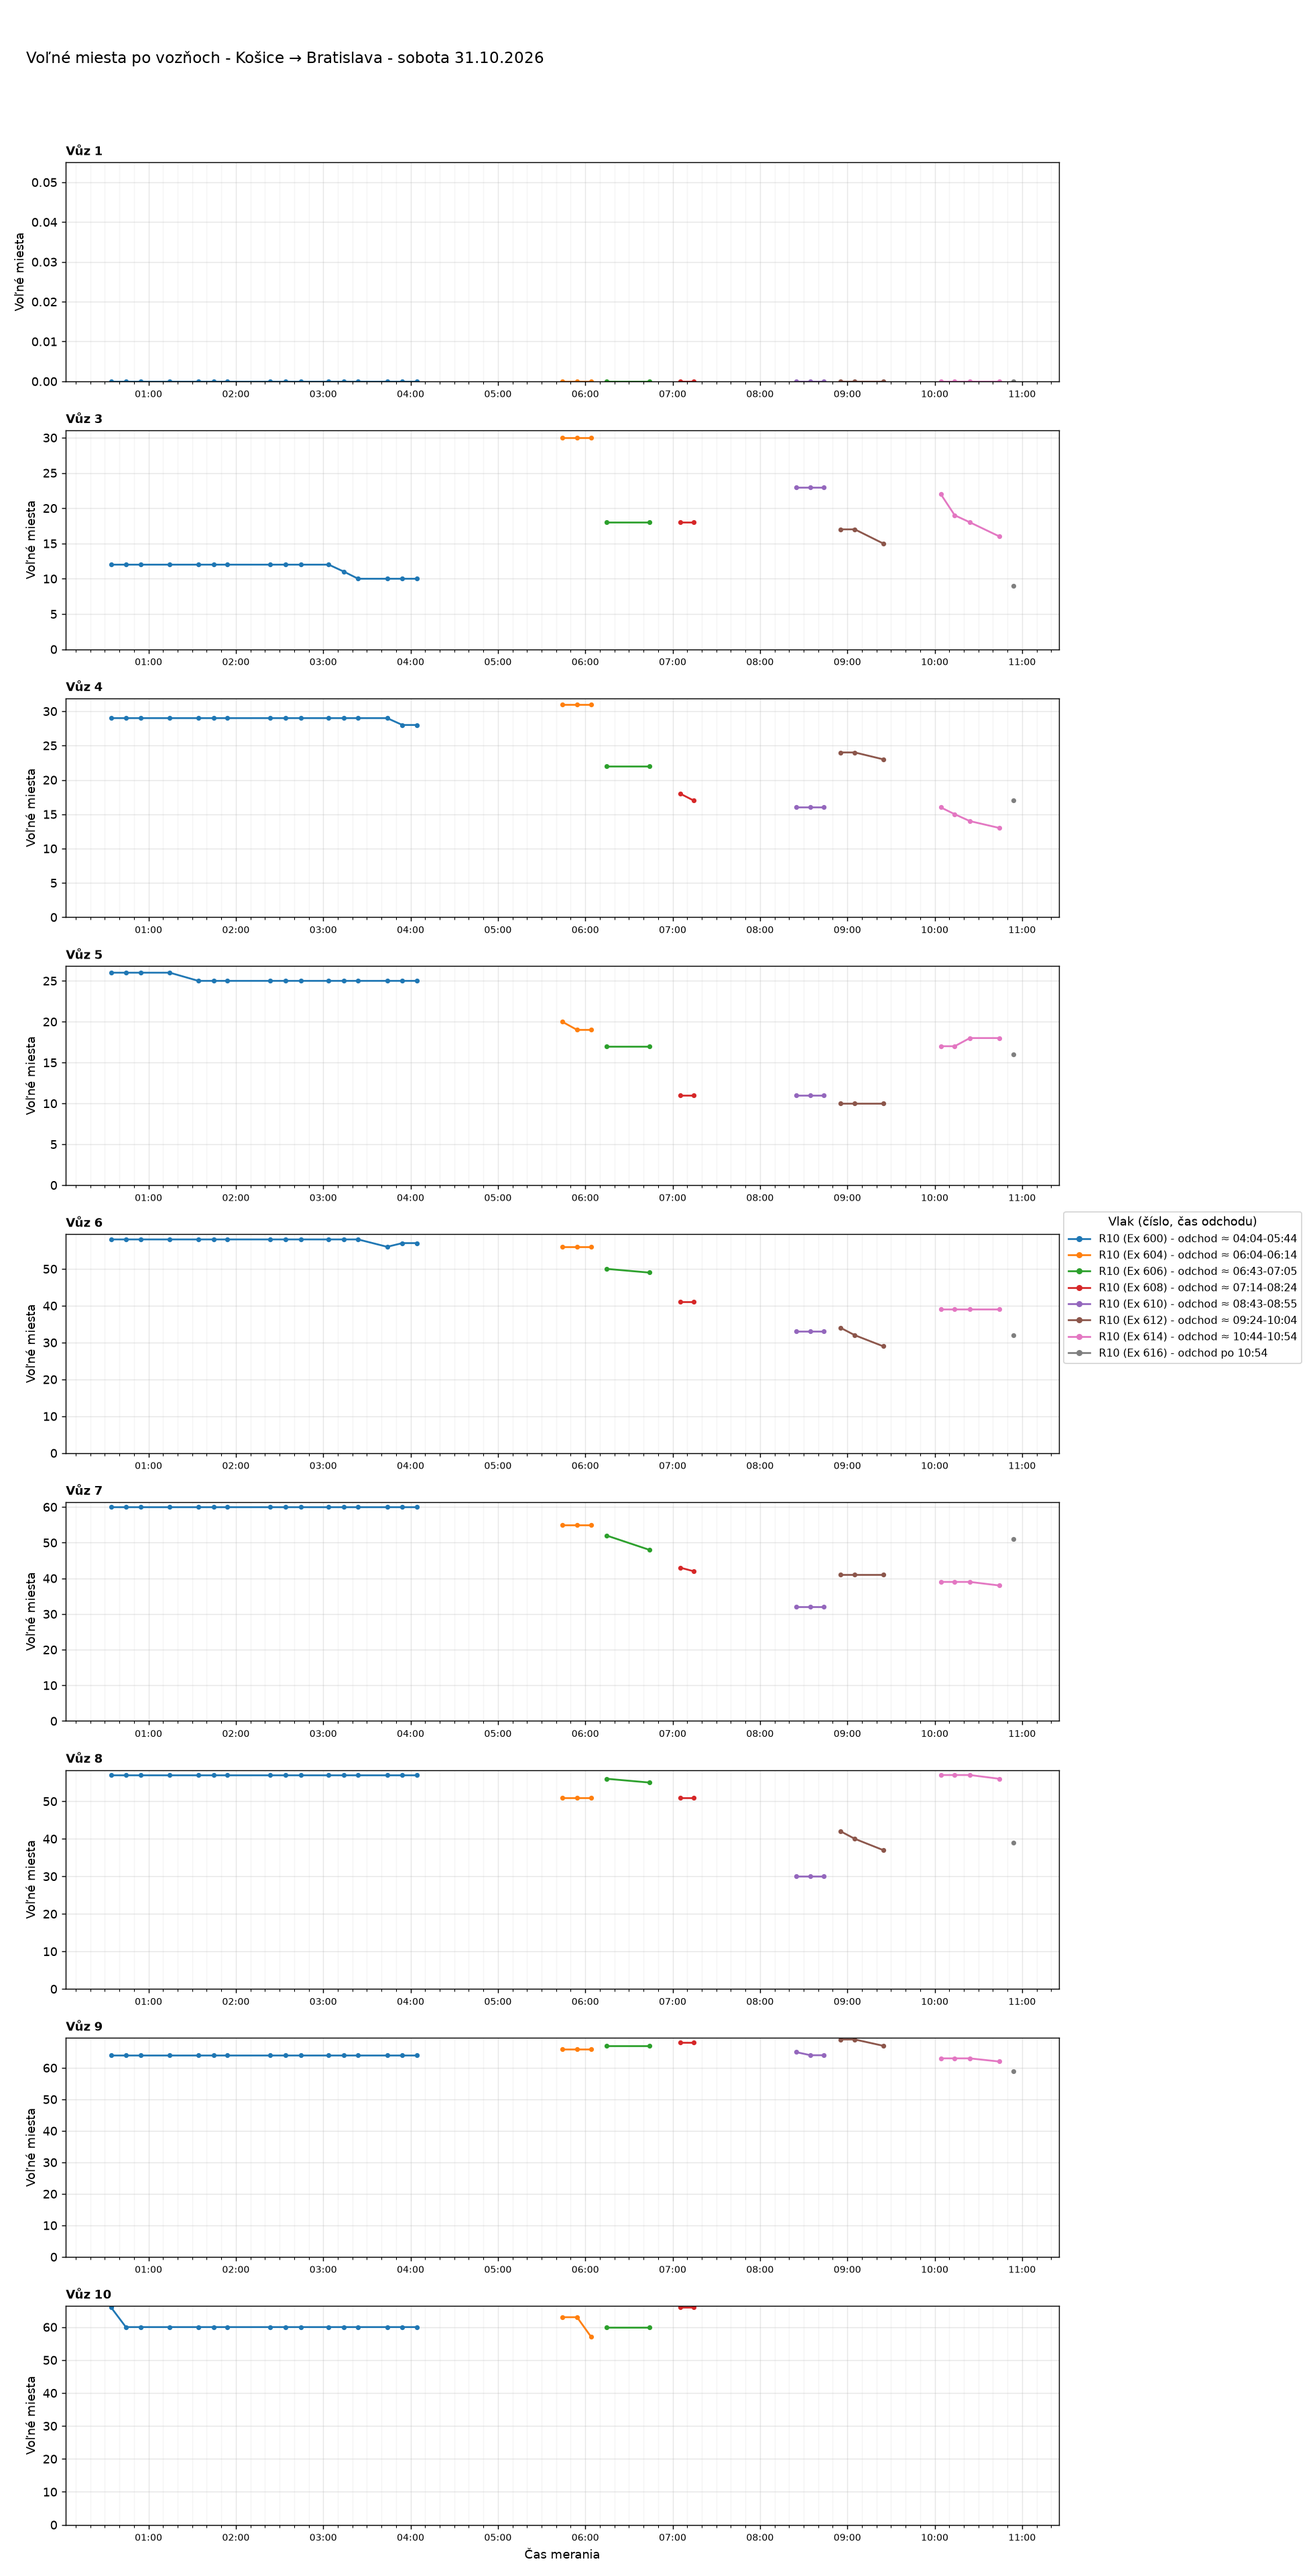
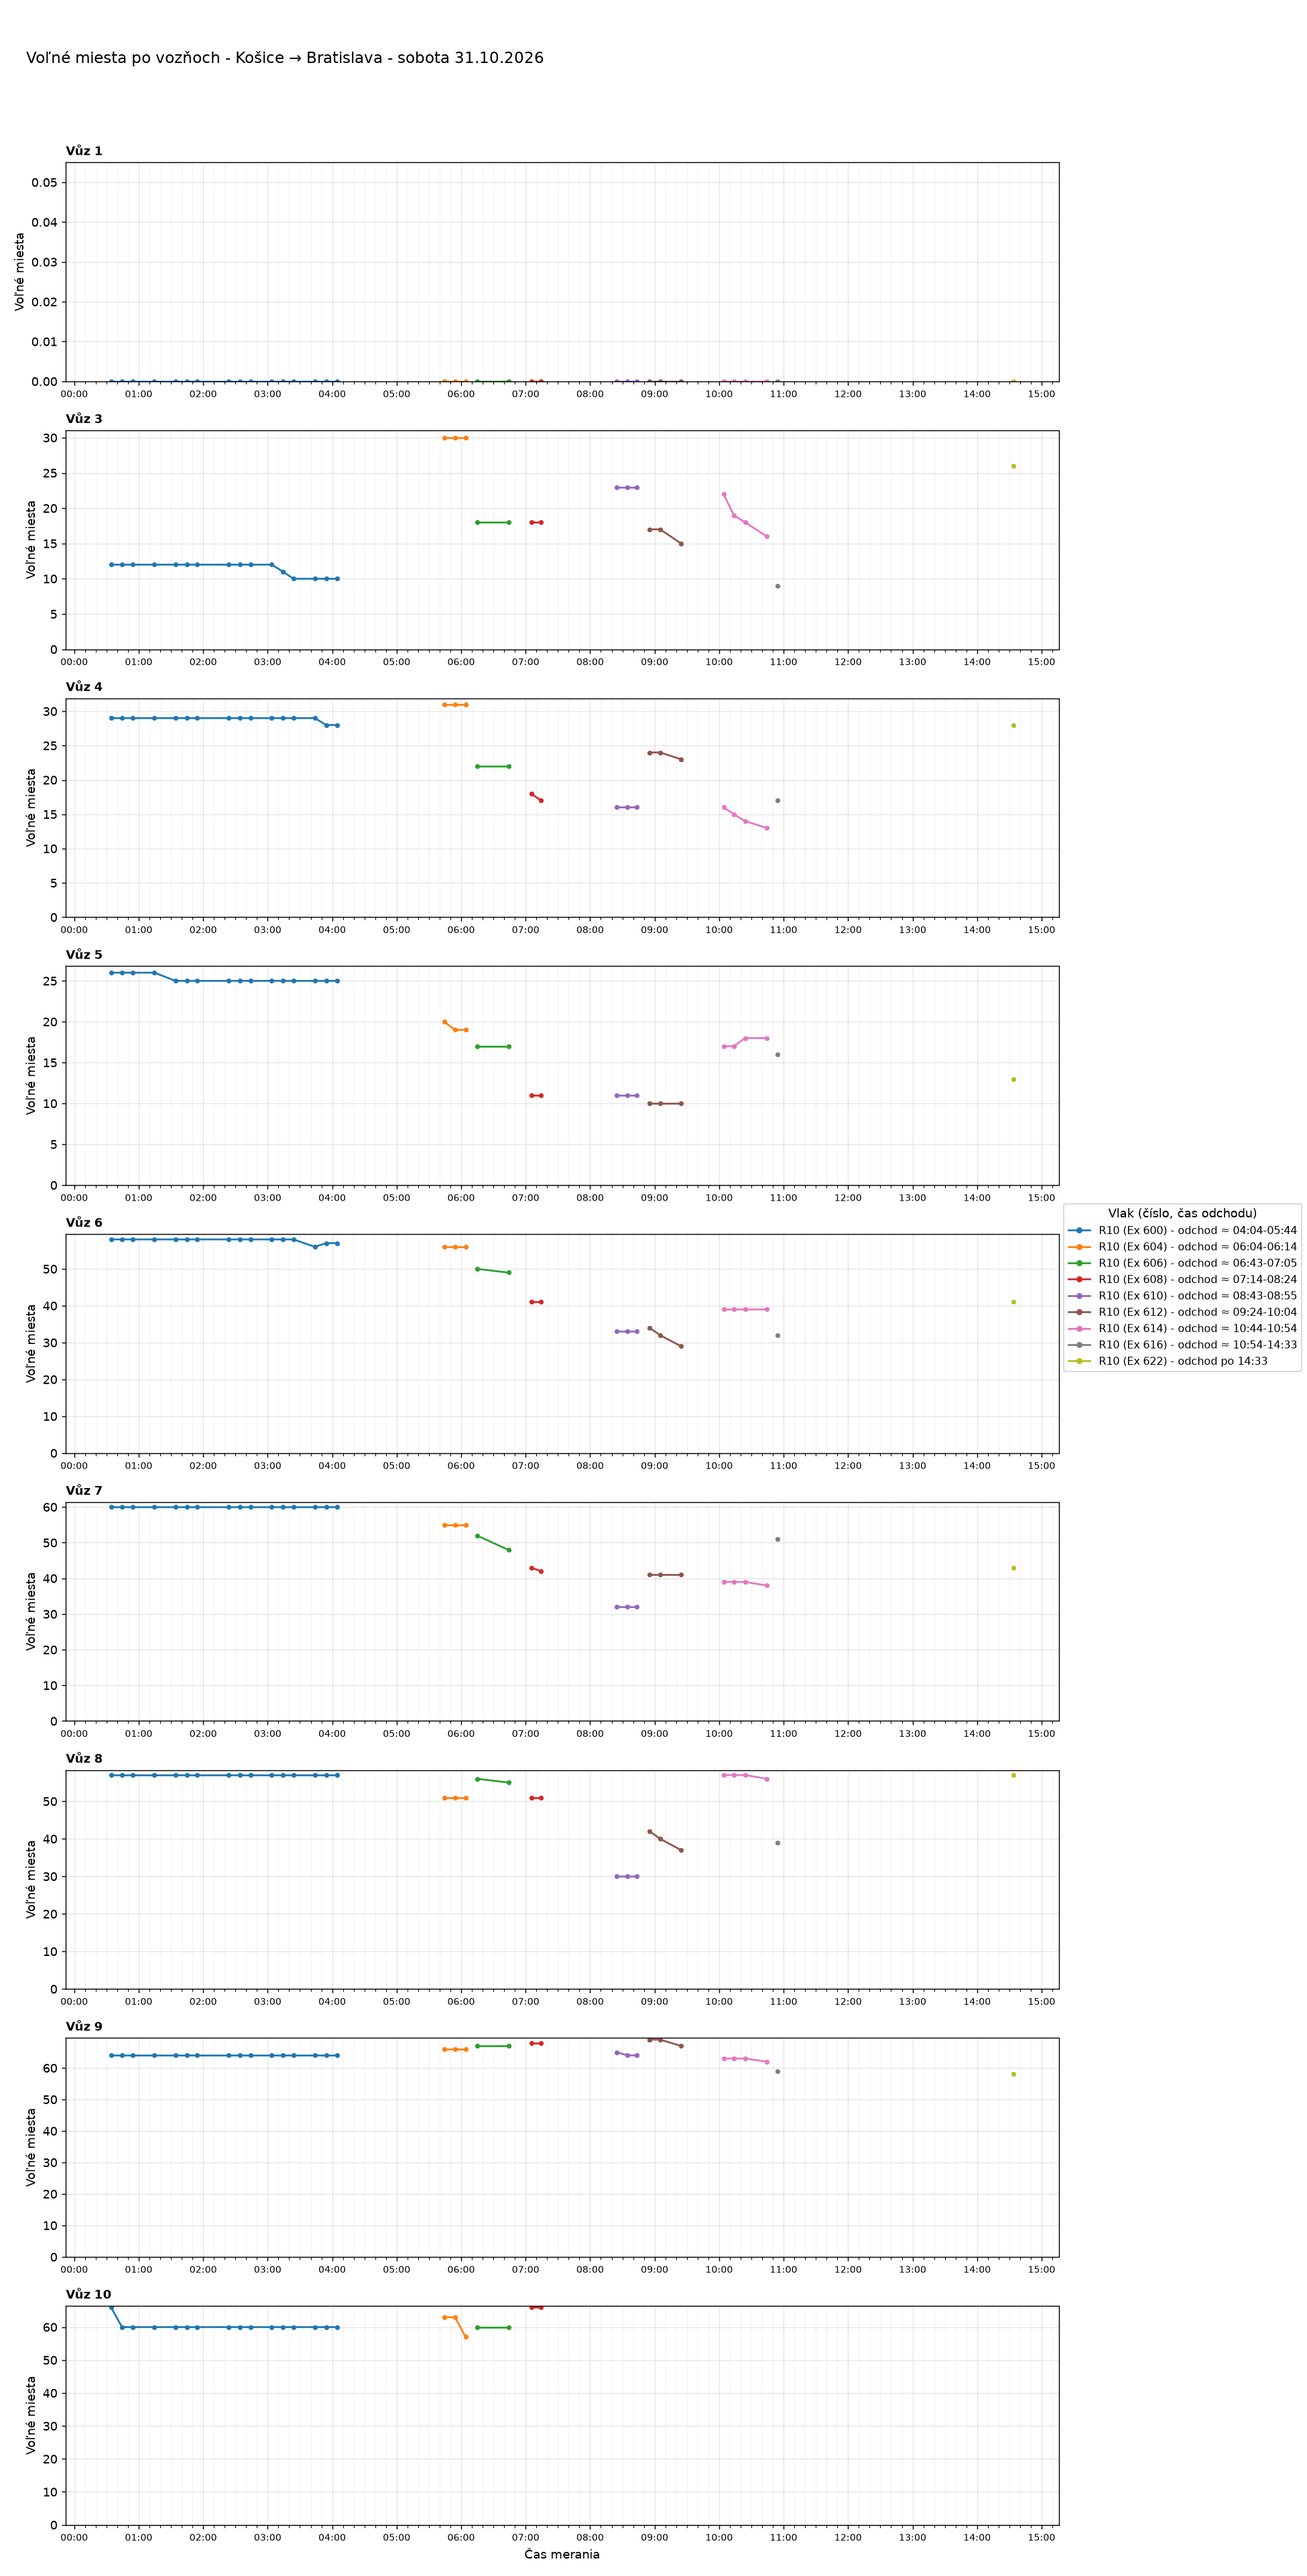
Aktualizácia grafov 2026-10-31 14:58

Changed region(s): [[0.8, 0.4684, 1.0, 0.5308]]

diff --git a/index.html b/index.html
@@ -37,7 +37,7 @@ details.trasa>summary{cursor:pointer;font-weight:600;font-size:1.1rem;padding:8p
 <body>
 <main>
 <h1>Voľné miesta vo vlakoch</h1>
-<p class="muted">Posledné meranie: 31.10.2026 11:03 ·
+<p class="muted">Posledné meranie: 31.10.2026 14:33 ·
 <a href="data/obsadenost_data.csv">stiahnuť dáta (CSV)</a></p>
 <nav class="nav"><a href="#suhrn">Súhrn</a><a href="#statistiky">Štatistiky</a><a href="#historia">História grafov</a></nav>
 
@@ -49,7 +49,7 @@ details.trasa>summary{cursor:pointer;font-weight:600;font-size:1.1rem;padding:8p
 <tr><td><a href="#dBA-VR-2026-10-31">sobota 31.10.2026</a></td><td>Bratislava → Vrútky</td><td>43</td><td>8</td><td>00:21-11:02</td></tr>
 <tr><td><a href="#dVR-BA-2026-10-31">sobota 31.10.2026</a></td><td>Vrútky → Bratislava</td><td>36</td><td>7</td><td>02:42-11:02</td></tr>
 <tr><td><a href="#dBA-KE-2026-10-31">sobota 31.10.2026</a></td><td>Bratislava → Košice</td><td>43</td><td>8</td><td>00:23-11:03</td></tr>
-<tr><td><a href="#dKE-BA-2026-10-31">sobota 31.10.2026</a></td><td>Košice → Bratislava</td><td>34</td><td>8</td><td>00:34-10:54</td></tr>
+<tr><td><a href="#dKE-BA-2026-10-31">sobota 31.10.2026</a></td><td>Košice → Bratislava</td><td>35</td><td>9</td><td>00:34-14:33</td></tr>
 <tr><td><a href="#dBA-VR-2026-10-30">piatok 30.10.2026</a></td><td>Bratislava → Vrútky</td><td>68</td><td>16</td><td>00:31-23:31</td></tr>
 <tr><td><a href="#dVR-BA-2026-10-30">piatok 30.10.2026</a></td><td>Vrútky → Bratislava</td><td>56</td><td>14</td><td>02:52-21:02</td></tr>
 <tr><td><a href="#dBA-KE-2026-10-30">piatok 30.10.2026</a></td><td>Bratislava → Košice</td><td>52</td><td>12</td><td>00:22-23:12</td></tr>
